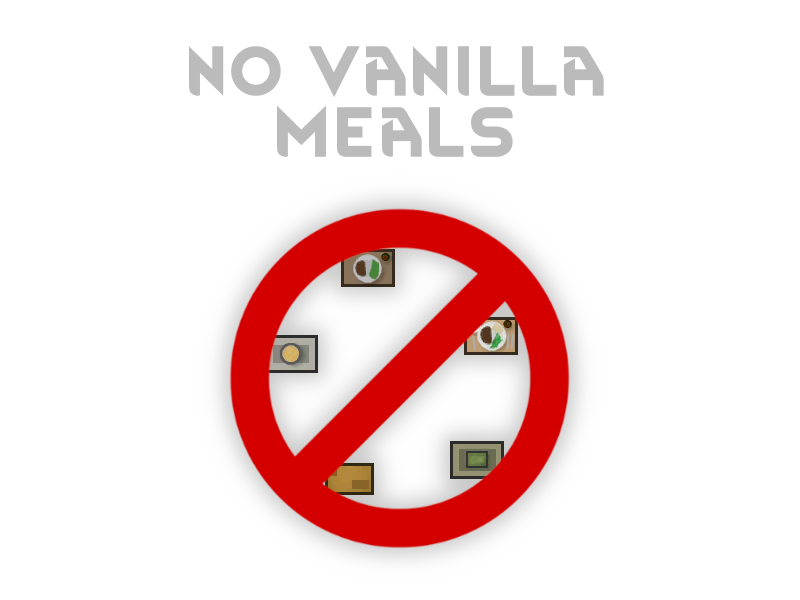
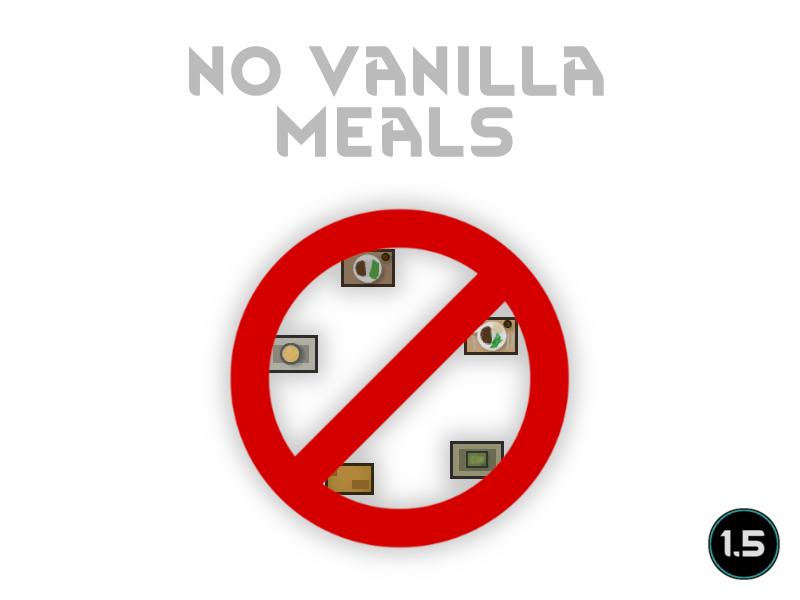
Mod updated for 1.5 and passed autotests

Changed region(s): [[0.875, 0.84, 1.0, 0.99]]

diff --git a/Source/NoVanillaMeals/NoVanillaMeals.cs b/Source/NoVanillaMeals/NoVanillaMeals.cs
@@ -1,5 +1,4 @@
 using System;
-using System.Collections.Generic;
 using System.Linq;
 using System.Reflection;
 using RimWorld;
@@ -15,7 +14,7 @@ internal static class NoVanillaMeals
         var vanillaMeals = (from ThingDef meal in DefDatabase<ThingDef>.AllDefsListForReading
             where meal is
             {
-                IsIngestible: true, modContentPack: { IsOfficialMod: true },
+                IsIngestible: true, modContentPack.IsOfficialMod: true,
                 ingestible.foodType: FoodTypeFlags.Meal
             }
             select meal).ToList();
@@ -47,7 +46,7 @@ internal static class NoVanillaMeals
 
         foreach (var mealRecipe in mealRecipes)
         {
-            mealRecipe.factionPrerequisiteTags = new List<string> { "NotForYou" };
+            mealRecipe.factionPrerequisiteTags = ["NotForYou"];
         }
 
         DefDatabase<RecipeDef>.ResolveAllReferences();

diff --git a/README.md b/README.md
@@ -1,6 +1,6 @@
 # NoVanillaMeals
 
-![Image](https://i.imgur.com/buuPQel.png)
+![Image](https://i.imgur.com/iCj5o7O.png)
 
 
 Removes all vanilla meals definitions from the game. 
@@ -8,24 +8,26 @@ For players that want to only use and find modded meals.
 
 Base-classes are untouched so they still can be used by mods.
 
-![Image](https://i.imgur.com/O0IIlYj.png)
+![Image](https://i.imgur.com/Ds0rBAD.png)
 
 Since modding is just a hobby for me I expect no donations to keep modding. If you still want to show your support you can gift me anything from my https://store.steampowered.com/wishlist/id/Mlie]Wishlist or buy me a cup of tea.
 
-https://ko-fi.com/G2G55DDYD]![Image](https://i.imgur.com/Utx6OIH.png)
+https://ko-fi.com/G2G55DDYD]![Image](https://i.imgur.com/VWG0yff.png)
 
 
-![Image](https://i.imgur.com/PwoNOj4.png)
+![Image](https://i.imgur.com/5xwDG6H.png)
 
 
 
 -  See if the the error persists if you just have this mod and its requirements active.
 -  If not, try adding your other mods until it happens again.
--  Post your error-log using https://steamcommunity.com/workshop/filedetails/?id=818773962]HugsLib and command Ctrl+F12
+-  Post your error-log using https://steamcommunity.com/workshop/filedetails/?id=818773962]HugsLib or the standalone https://steamcommunity.com/sharedfiles/filedetails/?id=2873415404]Uploader and command Ctrl+F12
 -  For best support, please use the Discord-channel for error-reporting.
 -  Do not report errors by making a discussion-thread, I get no notification of that.
 -  If you have the solution for a problem, please post it to the GitHub repository.
+-  Use https://github.com/RimSort/RimSort/releases/latest]RimSort to sort your mods
 
 
 
+https://steamcommunity.com/sharedfiles/filedetails/changelog/2162721215]![Image](https://img.shields.io/github/v/release/emipa606/NoVanillaMeals?label=latest%20version&style=plastic&labelColor=0070cd&color=white)
 
